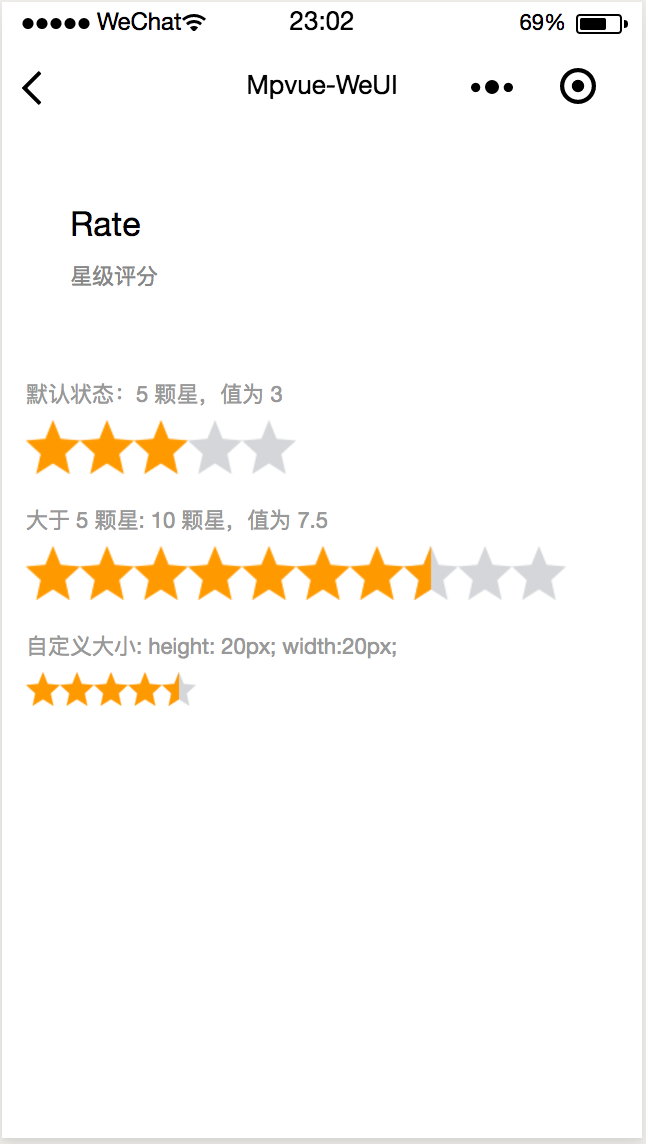
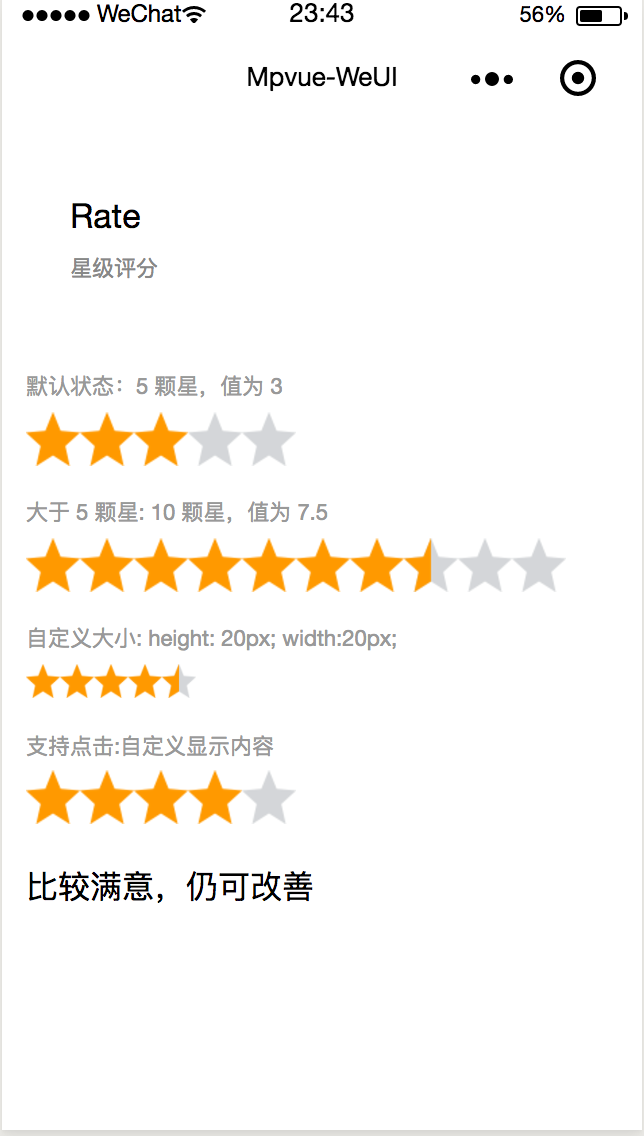
feat:add isSupportClick props for rate component

diff --git a/example/pages/rate/index.vue b/example/pages/rate/index.vue
@@ -1,18 +1,29 @@
 <template>
-  <page-content title="Rate" desc="星级评分">
-    <div class="weui-cells__title">默认状态：5 颗星，值为 3</div>
-    <mp-rate rateValue=3 @rateClick="rateClick"></mp-rate>
-    <div class="weui-cells__title">大于 5 颗星: 10 颗星，值为 7.5</div>
-    <mp-rate rateRange=10 rateValue=7.5></mp-rate>
-    <div class="weui-cells__title">自定义大小: height: 20px; width:20px;</div>
-    <mp-rate rateValue=4.5 rateClass="weui-rate-20"></mp-rate>
-  </page-content>
+  <div>
+    <page-content title="Rate" desc="星级评分">
+      <div class="weui-cells__title">默认状态：5 颗星，值为 3</div>
+      <mp-rate rateValue=3></mp-rate>
+      <div class="weui-cells__title">大于 5 颗星: 10 颗星，值为 7.5</div>
+      <mp-rate rateRange=10 rateValue=7.5></mp-rate>
+      <div class="weui-cells__title">自定义大小: height: 20px; width:20px;</div>
+      <mp-rate rateValue=4.5 rateClass="weui-rate-20"></mp-rate>
+      <div class="weui-cells__title">支持点击:自定义显示内容</div>
+      <mp-rate rateValue=4.5 @rateClick="rateClick" :isSupportClick=true></mp-rate>
+    </page-content>
+    <div class="weui-rate-value-desc">{{rateScore}}</div>
+  </div>
 </template>
 
 <script>
 import mpRate from '../../../src/rate';
 import pageContent from '../../components/page-content';
 export default {
+  data() {
+    return {
+      rateScore: '',
+      rateScoreDesc: ['非常不满意，各方面都很差', '不满意，比较差', '一般，还需改善', '比较满意，仍可改善', '非常满意,无可挑剔']
+    };
+  },
   components: {
     pageContent,
     mpRate
@@ -20,6 +31,8 @@ export default {
   methods: {
     rateClick(index) {
       console.log(index);
+      this.rateScore = this.rateScoreDesc[index];
+      console.log(this.rateScore);
     }
   }
 };
@@ -32,5 +45,8 @@ export default {
 }
 .weui-cells__title {
   padding-left: 0;
+}
+.weui-rate-value-desc {
+  padding: 15px;
 }
 </style>

diff --git a/src/rate/index.vue b/src/rate/index.vue
@@ -6,6 +6,11 @@
 
 <script>
 export default {
+  data() {
+    return {
+      rateValueClick: 0
+    };
+  },
   props: {
     rateRange: {
       type: Number,
@@ -18,6 +23,10 @@ export default {
     rateClass: {
       type: String,
       default: ''
+    },
+    isSupportClick: {
+      type: Boolean,
+      defult: false
     }
   },
   computed: {
@@ -26,7 +35,7 @@ export default {
       const CLS_HALF = 'weui-rate-item-half ' + this.rateClass;
       const CLS_OFF = 'weui-rate-item-off ' + this.rateClass;
       let result = [];
-      let rateValue = Math.floor(this.rateValue * 2) / 2;
+      let rateValue = this.rateValueClick ? Math.floor(this.rateValueClick * 2) / 2 : Math.floor(this.rateValue * 2) / 2;
       let hasDecimal = rateValue % 1 !== 0;
       let integer = Math.floor(rateValue);
       for (let i = 0; i < integer; i++) {
@@ -43,7 +52,11 @@ export default {
   },
   methods: {
     rateClick(index) {
-      this.$emit('rateClick', index);
+      if (this.isSupportClick) {
+        this.rateValue = index + 1;
+        this.rateValueClick = this.rateValue;
+        this.$emit('rateClick', index);
+      }
     }
   }
 };

diff --git a/docs/.vuepress/config.js b/docs/.vuepress/config.js
@@ -42,7 +42,8 @@ module.exports = {
         collapsable: false,
         children: [
           'baseComponent/badge',
-          'baseComponent/grid'
+          'baseComponent/grid',
+          'baseComponent/rate'
         ]
       },
       {

diff --git a/docs/baseComponent/rate.md b/docs/baseComponent/rate.md
@@ -1,16 +1,16 @@
-# Badge
+# Rate
 
-徽章
+星级评分
 
-<imgPreview imgUrl="/assets/badge.png"/>
+<imgPreview imgUrl="/assets/rate.png"/>
 
 ### 引入
 
 ``` js
-import mpBadge from 'mpvue-weui/mpBadge';
+import mpRate from 'mpvue-weui/rate';
 export default {
   components: {
-    mpBadge,
+    mpRate,
   },
 }
 ```
@@ -18,11 +18,31 @@ export default {
 ### 使用
 
 ``` html
-<mp-badge>
-  <text>详细信息</text>
-</mp-badge>
+<!-- 默认状态 -->
+<mp-rate rateValue=3 @rateClick="rateClick"></mp-rate>
 
-<mp-badge :dot=false :info=9 badgePos="right-top">
-  <image src='/static/images/pic_160.png' class="badge-img" />
-</mp-badge>
+<!-- 通过自定义 class 改变 rate 组件大小 -->
+<mp-rate rateValue=4.5 rateClass="weui-rate-20"></mp-rate>
+
 ```
+
+### API
+| 参数 | 说明 | 类型 | 默认值 |
+|-----------|-----------|-----------|-------------|
+| rateRange | 需要展示星星的个数(整数) | `Number` | 5 |
+| rateValue | 评分的值，支持小数 | `Number` | 0 |
+| rateClass | 评分组件自定义 `class`,一般用于改变组件大小 | `String` | '' |
+
+::: tip
+`rateClass` 设置的 `class` 需要写在全局样式中，如果写在耽搁模板的样式里面，那么不要给 `<style></style>` 加 `scoped`属性。
+:::
+
+### 事件
+
+| 事件名 | 说明 | 参数 |
+|-----------|-----------|-----------|
+| rateClick:click | 点击评分组件时触发，返回点击的组件的索引值 | `index` |
+
+::: tip
+该功能一般用于点击zu jian an
+:::
